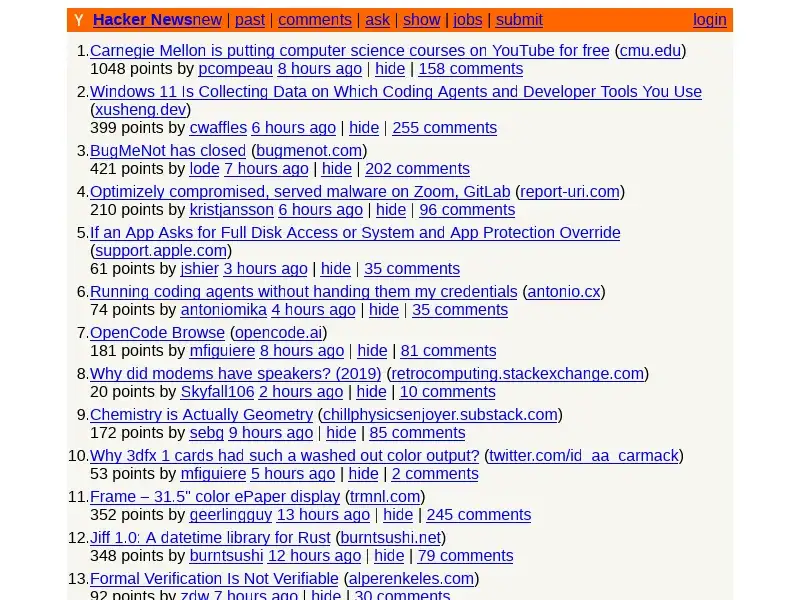
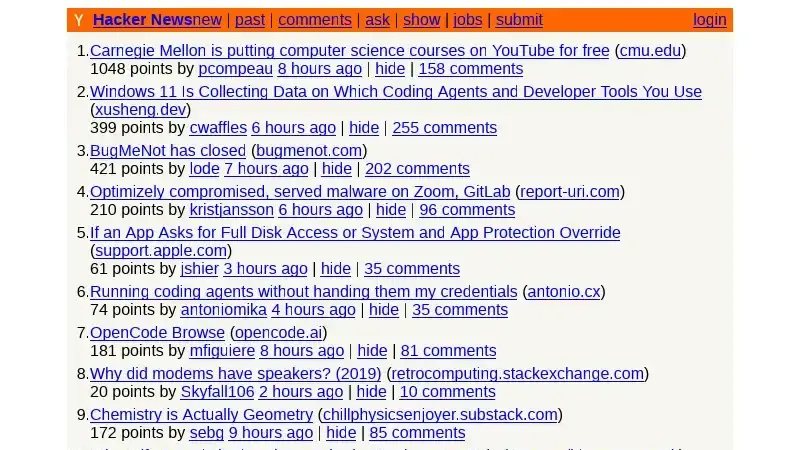
Fix Obscura tutorial images: correct img2 alt text, re-crop img3 to 16:9
- img2 alt claimed a heading example.com no longer has (its live markup
  has no h1; Obscura rendered it faithfully). Alt now describes the body
  text actually shown.
- img3 was 800x600; the .inline-art container forces 16/9 object-fit:cover
  and clipped the HN header + story 1. Re-cropped top-anchored to 800x450
  so it displays whole.

diff --git a/articles/obscura-headless-browser-no-chrome-tutorial/index.html b/articles/obscura-headless-browser-no-chrome-tutorial/index.html
@@ -126,7 +126,7 @@ XHR got: hello-from-local-api</code></pre>
 <pre><code class="language-bash">./obscura fetch https://example.com -s example-shot.png --quiet
 file example-shot.png</code></pre>
 <pre><code>example-shot.png: PNG image data, 1280 x 720, 8-bit/color RGBA, non-interlaced</code></pre>
-<figure class="inline-art"><img class="story-image" src="/articles/obscura-headless-browser-no-chrome-tutorial/img2.webp" alt="Screenshot of example.com rendered by Obscura, showing the Example Domain heading"><figcaption>Screenshot captured by Obscura itself during verification: example.com rendered at 1280×720.</figcaption></figure>
+<figure class="inline-art"><img class="story-image" src="/articles/obscura-headless-browser-no-chrome-tutorial/img2.webp" alt="Screenshot of example.com rendered by Obscura, showing the page's body text"><figcaption>Screenshot captured by Obscura itself during verification: example.com rendered at 1280×720.</figcaption></figure>
 <p>For more than one URL, <code>scrape</code> runs fetches in parallel worker processes and returns one JSON document, in input order, with per-URL timings:</p>
 <pre><code class="language-bash">./obscura scrape https://example.com https://example.org --quiet --format json</code></pre>
 <pre><code class="language-json">{
